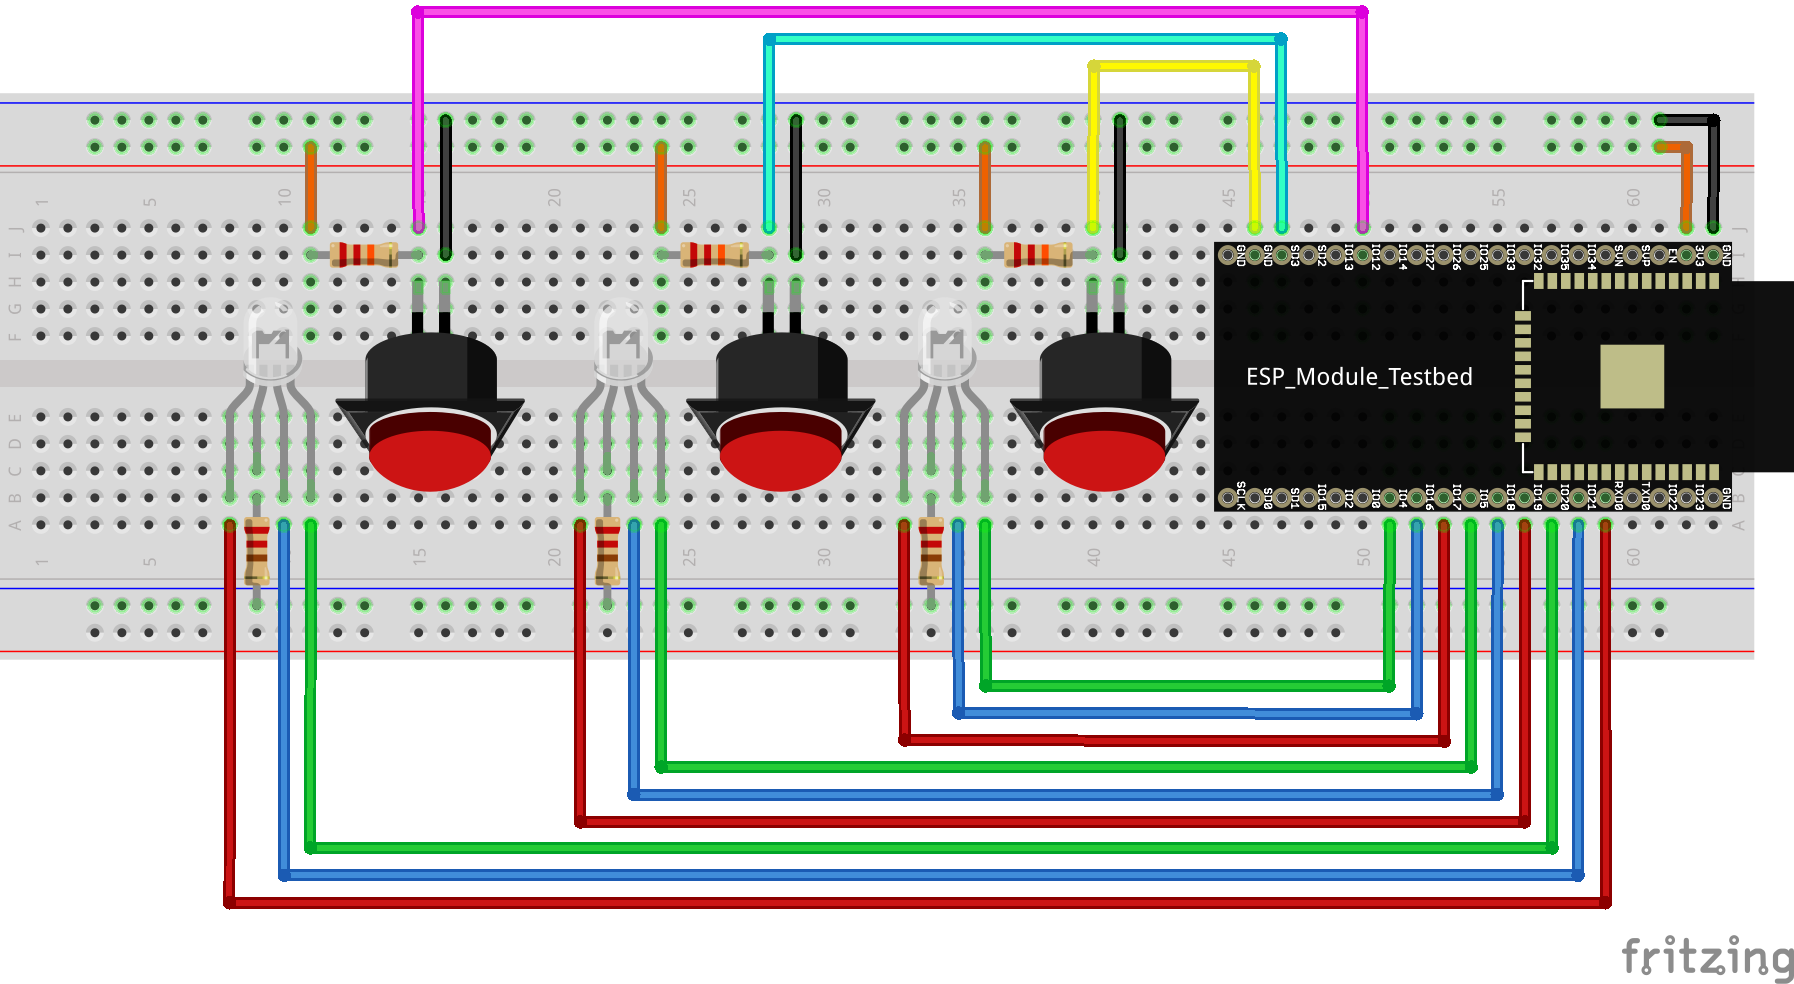
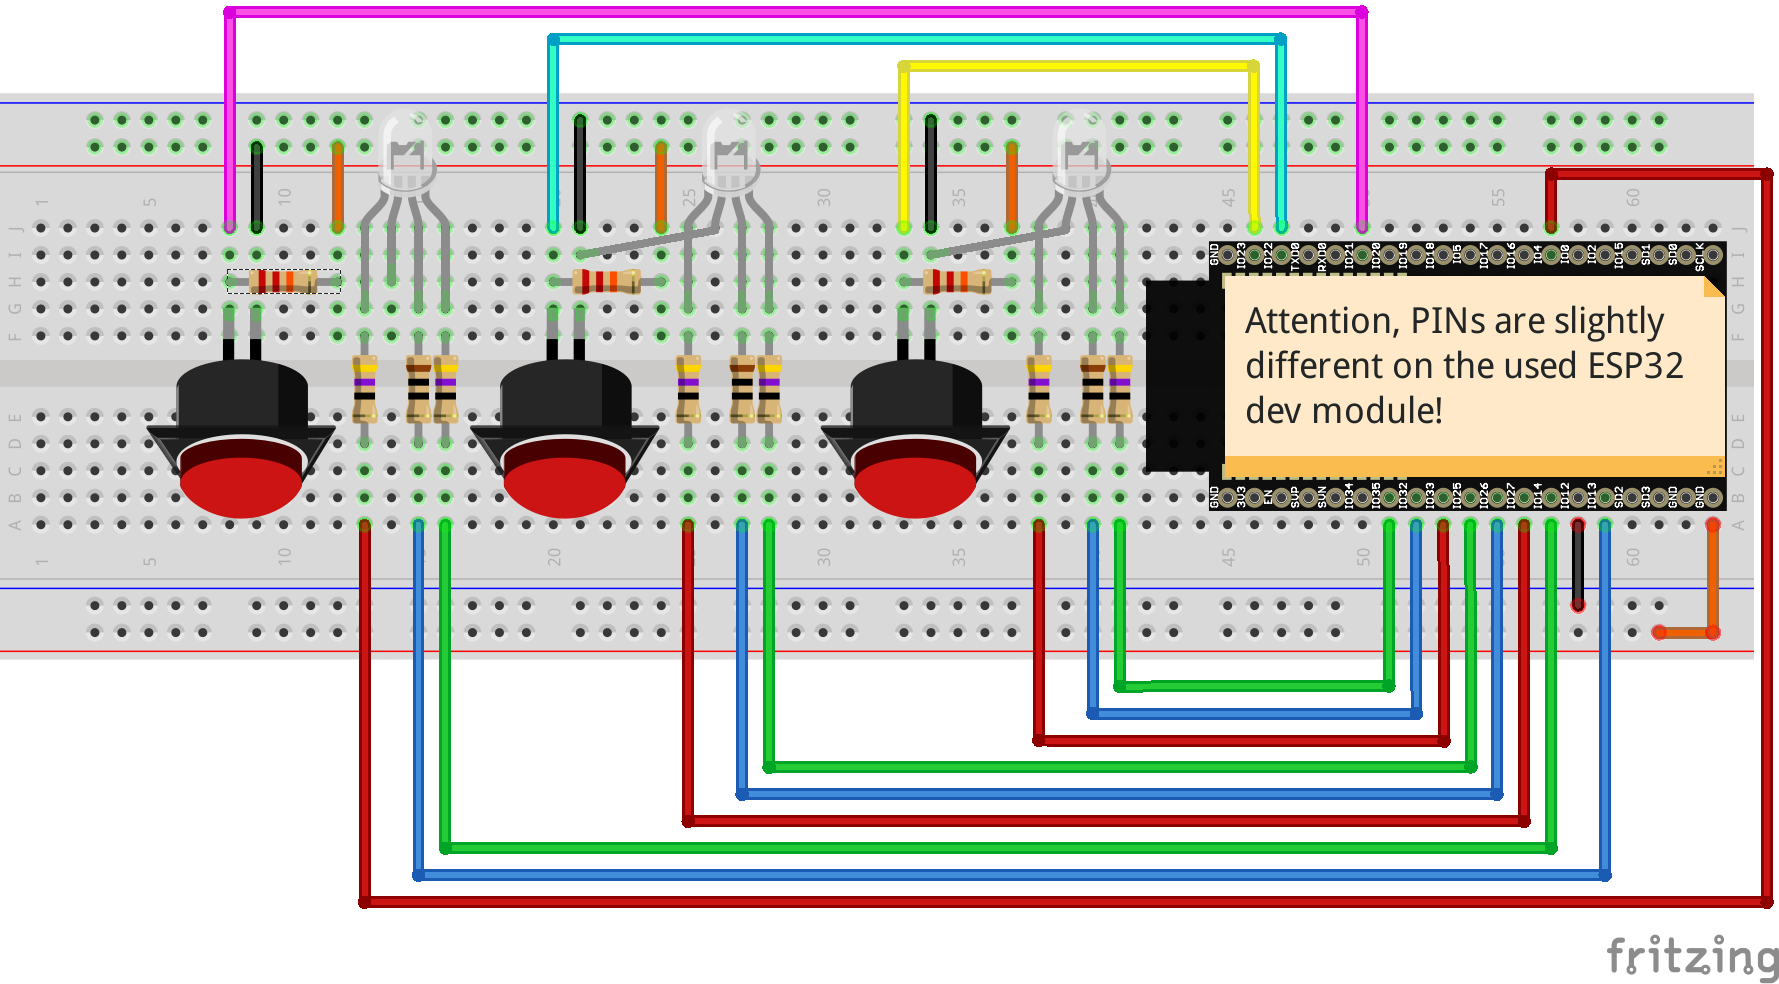
added rgb leds on gamepad

diff --git a/README.md b/README.md
@@ -107,7 +107,12 @@ it to the esp32.
 Easiest way of flashing is by using the Arduino IDE. Enhance it with the software from
 espressif to flash esp32 boards.
 
-* https://github.com/espressif/arduino-esp32
+* Install the current upstream Arduino IDE at the 1.8 level or later. The current version is at the [Arduino website](http://www.arduino.cc/en/main/software).
+* Start Arduino and open Preferences window.
+* Enter ```https://dl.espressif.com/dl/package_esp32_index.json``` into *Additional Board Manager URLs* field. You can add multiple URLs, separating them with commas.
+* Open Boards Manager from Tools > Board menu and install *esp32* platform (and don't forget to select your ESP32 board from Tools > Board menu after installation).
+
+* [Espressif Esp32 @ github](https://github.com/espressif/arduino-esp32)
 
 #### UDP Packets
 * timestamp, button1, color, dt, button2, color, dt, button3, color, dt
@@ -133,14 +138,19 @@ for a quick introduction.
   * LEDs
   * udp packets
 
-
+----
 ## Hardware
 
-### Schematics
+### Gamepad Schematics
+Shows, how the buttons, LEDs and ESP32 are connected.
+
+![ESP32 Pinmap](gampad/esp32_pinmap.png)
+
 ![gamepad, buttons, leds](gamepad/gamepad_with_3_buttons_Steckplatine.png)
 
 * https://randomnerdtutorials.com/esp32-pinout-reference-gpios/
 * https://github.com/troelssiggaard/ESP32-fritzing-module - ESP32 wroom Fritzing part
+
 
 ### Bill Of Material
 #### Gamecontrolmaster & Light Bar
@@ -163,11 +173,12 @@ Number | Name | Sum
 1x | li-ion battery management system | 1€
 1x | 5V step up | 1,50€
 2x | battery holding for 18650 cell | 2€
-3x | RGB LED (common cathode) for buttons | 0,30€
-1x | green LED for on/off | 0,01€
-1x | blue LED for connection status | 0,01€
 1x | flip switch | 1€
 3x | arcade buttons | 3,60€
+3x | RGB LED (common cathode) for buttons | 0,30€
+6x | 47 Ohm resistor | 0,01€
+3x | 10 Ohm resistor | 0,01€
+3x | 22 kOhm resistor | 0,01€
 1x | combs from six pieces of wood (12mm x 12mm x 9mm)| 3€
 | **sum** | **ca 20€**
 
